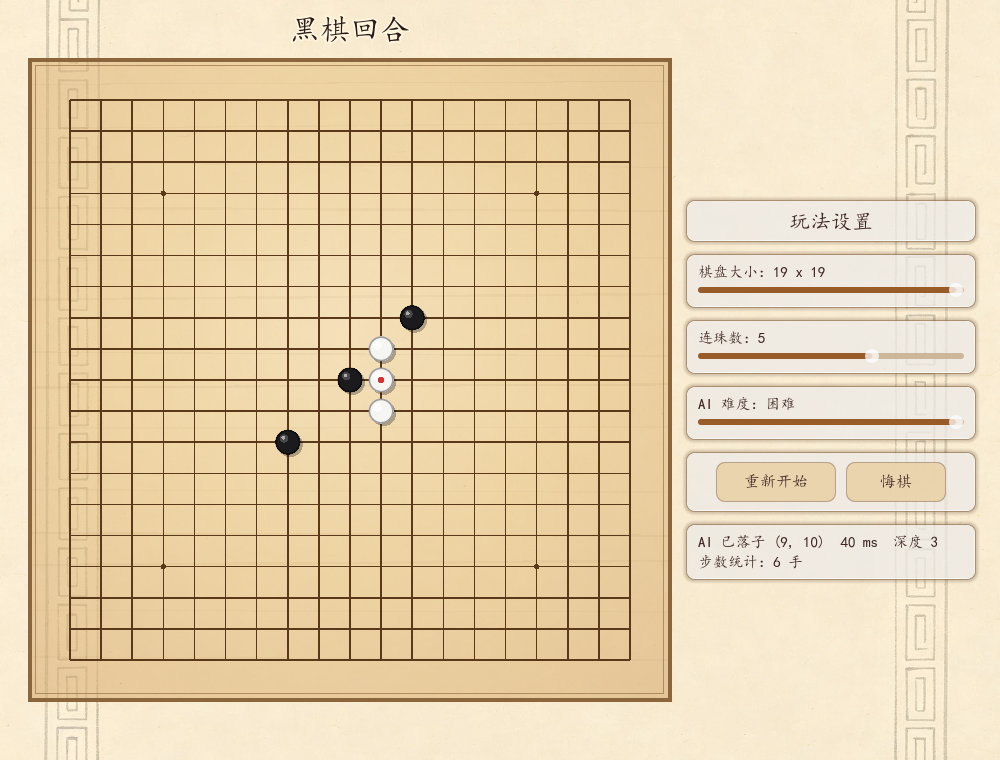
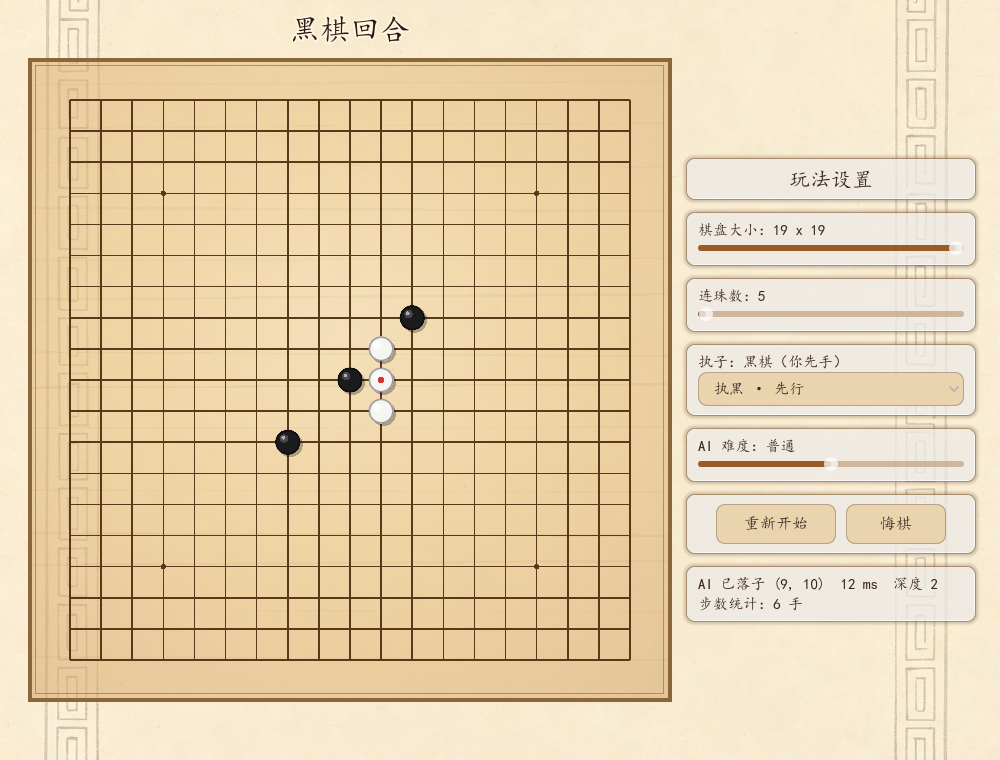
v1.2.1 修正：连珠数下限收紧为 5 + 修复调整棋盘大小的显示 Bug + 新增执子/先后手
修正 1 · 连珠数下限固定为 5
- 原范围 3~6 存在「五珠以下」玩法，不符合规则
- Main.tscn 的 WinSlider.min_value → 5
- ui.gd / board.gd 的 MIN_WIN_COUNT → 5，_apply_slider_rules 与 set_rules
  各自再夹一次，防止绕过 UI 直接调 API
- gomoku_ai.gd 的 set_rules 仍按 3~6 夹取（算法自身兼容范围），仅补注释

修正 2 · 调整棋盘大小的显示 Bug（崩溃级）
- 根因：19 路时鼠标停在右下角 _hover_cell=(17,17)，切到 9 路后同一帧的
  _draw() 里仍用旧坐标索引新数组 →
  "Out of bounds get index '17' (on base: 'Array')" at _draw_ghost_stone
- 关键：_draw() 里越界会中断整个 _draw()，导致其后的 _draw_stones() 与
  _draw_last_marker() 被跳过 —— 棋子整帧画不出来，表现为「调大小后显示坏了」
- 三重防护：
  1) set_rules() 显式清空 _hover_cell
  2) _draw_ghost_stone() 加 is_inside() + 数组实际尺寸双重判断
  3) _draw_stones() 改为按 mini(board_size, board.size()) 遍历实际数组
- 另用「初始 9 路」vs「15→19→9 切换」做像素级 A/B —— 76 万像素零差异

修正 3 · 右侧新增「执子 / 先后手」
- 新增 SidePanel + OptionButton：「执黑 · 先行」/「执白 · 后行」
- HUMAN_COLOR / AI_COLOR 由 const 改为 human_color / ai_color 变量
- 新增 _maybe_start_ai_turn()：轮到 AI 且未结束时自动启动 —— 玩家执白时 AI 先手
- 新增 _restart_round()：重开并在需要时让 AI 先手（重新开始/换边/改参数共用）
- 胜负文案、悔棋目标色均改为按 human_color 判定
- 顺带修掉：_apply_slider_rules() 原先在 AI 思考时直接 return，
  会把改动静默丢弃（滑块显示 19 但棋盘还是 15）；现改为重启防抖定时器重试

验证（21 条断言全通过）
- 连珠数下限：滑块下限=5、强行设 3 被夹到 5、set_rules(15,3) 后 win_count=5
- 尺寸切换：19 路 hover=(17,17) → 切 9 路无越界报错、hover 重置为 (-1,-1)、棋子正常绘制
- 执子：切执白后 AI 先手落黑棋、玩家落白棋可正常对弈、切回执黑后重开且玩家先手
- 3 个脚本语法检查通过；主场景无头运行 150 帧无 ERROR

文档
- docs/V12_UPDATE.md 追加 v1.2.1 修正章节（根因分析 + 复现验证表）
- CLAUDE.md 新增第 17/18 条坑；README 更新功能说明
- 重新生成全部配图（含新的执子面板）

Changed region(s): [[0.682, 0.1816, 0.992, 0.8474]]

diff --git a/docs/V12_UPDATE.md b/docs/V12_UPDATE.md
@@ -1,6 +1,7 @@
 # v1.2 更新说明 · 参数化 / 木色 UI / 滑动调节面板
 
 > 本文档记录 v1.2 四个模块的改动，可直接摘取进比赛文档。
+> **v1.2.1 修正**见文末 —— 修掉一个真实的显示 Bug，并收紧连珠数下限、新增「执子」选项。
 
 ## 总览
 
@@ -9,7 +10,7 @@
 | 1 | 背景图片处理（webp → png，落入 `assets/ui/`） | ✅ |
 | 2 | 玩法参数化（`BOARD_SIZE` / `WIN_COUNT` / `AI_LEVEL`）+ AI 规则自适应 | ✅ |
 | 3 | 木色 UI 全面替换（TextureRect 背景 + 暖木棋盘 + 宋楷字体） | ✅ |
-| 4 | 右侧信息栏与滑动调节面板（RightPanel + HSlider） | ✅ |
+| 4 | 右侧信息栏与滑动调节面板（RightPanel + HSlider + 执子选项） | ✅ |
 
 **棋盘数组结构始终未变**：依然是 `board[row][col]` 的二维 `Array`，
 `0=空 / 1=黑 / 2=白`。v1.2 只让**尺寸**、**连珠数**与**AI 档位**变成可调参数。
@@ -262,3 +263,109 @@ func _on_slider_drag_ended(_value_changed: bool) -> void:
 | `scripts/ui.gd` | 重写：木色主题、RightPanel、滑块防抖、胜负弹窗上移 |
 | `project.godot` | 版本号 → 1.2.0 |
 | `docs/ui_9x9.png`、`ui_19x19.png` | 新增配图 |
+
+---
+
+# v1.2.1 修正
+
+## 修正 1 · 连珠数下限收紧为 5
+
+**问题**：v1.2 的连珠数滑块范围是 3~6，存在「五珠以下」的玩法，不符合规则。
+
+**修正**：下限固定为 **5**，三层同时收紧，防止绕过 UI 直接调 API：
+
+| 位置 | 措施 |
+|---|---|
+| `Main.tscn` | `WinSlider.min_value = 5`（滑块拖不到 5 以下） |
+| `ui.gd` | `MIN_WIN_COUNT = 5`，`_apply_slider_rules()` 里 `clampi` |
+| `board.gd` | `MIN_WIN_COUNT = 5`，`set_rules()` 里再 `clampi` 一次 |
+
+> `gomoku_ai.gd` 的 `set_rules()` 仍按 3~6 夹取 —— 那是**算法自身的兼容范围**
+> （便于复用），规则层的 5~6 限制由前三者负责。
+
+**实测**：滑块下限 = 5；强行 `win_slider.value = 3` 被夹到 5；
+`board.set_rules(15, 3)` 后 `win_count == 5`。
+
+## 修正 2 · 调整棋盘大小的显示 Bug（真实崩溃级问题）
+
+### 根因
+
+鼠标停在 **19 路**棋盘右下角时，`_hover_cell = (17, 17)`。
+此时把棋盘切到 **9 路**，在**同一帧**的 `_draw()` 里仍用旧坐标索引新数组：
+
+```
+SCRIPT ERROR: Out of bounds get index '17' (on base: 'Array')
+   at: _draw_ghost_stone (res://scripts/board.gd:524)
+```
+
+**关键点**：`_draw()` 里任何一次越界报错都会**中断整个 `_draw()`**，
+于是排在 `_draw_ghost_stone()` 之后的 `_draw_stones()` 与 `_draw_last_marker()`
+被直接跳过 —— **棋子整帧画不出来**。用户看到的就是「调大小后棋盘显示坏了」。
+
+更糟的是：如果切换后鼠标恰好还映射到与旧值相同的格子，`_update_hover()`
+认为「悬停格没变」就不会再 `queue_redraw()`，棋子可能**持续不显示**。
+
+### 修正（三重防护）
+
+1. `set_rules()` 里显式清空 `_hover_cell = Vector2i(-1, -1)`
+2. `_draw_ghost_stone()` 加 `is_inside()` **加**数组实际尺寸双重判断
+3. `_draw_stones()` 改为按 `mini(board_size, board.size())` 遍历实际数组，
+   即便尺寸变量与数组短暂不同步也不会越界
+
+### 复现与验证
+
+| 步骤 | 修正前 | 修正后 |
+|---|---|---|
+| 19 路悬停右下角 → 切 9 路 | `Out of bounds get index '17'` | 无任何报错 |
+| 切换后 `_hover_cell` | 残留 `(17,17)` | 重置为 `(-1,-1)` |
+| 切换后棋子 | 该帧丢失 | 正常绘制 |
+
+> 另用「初始就是 9 路」vs「15→19→9 切换过去」做**像素级 A/B 对比** ——
+> 76 万像素**零差异**，确认切换不残留任何渲染状态。
+
+## 修正 3 · 右侧新增「执子 / 先后手」选项
+
+新增 `SidePanel`，内含 `OptionButton`：
+
+| 选项 | 含义 |
+|---|---|
+| 执黑 · 先行 | 玩家执黑先手（默认） |
+| 执白 · 后行 | 玩家执白，**AI 执黑先手** |
+
+配套改动：
+
+- `HUMAN_COLOR` / `AI_COLOR` 由 `const` 改为 `human_color` / `ai_color` **变量**
+- 新增 `_maybe_start_ai_turn()`：轮到 AI 且对局未结束时自动启动 AI 回合 ——
+  玩家执白时用它实现「AI 先手」
+- 新增 `_restart_round()`：重开一局并在需要时让 AI 先手（重新开始按钮、换边、改参数共用）
+- 胜负文案按 `human_color` 判定「你赢了 / 你输了」
+- 悔棋改为 `undo_to_player(human_color)`
+- 侧栏标签同时显示「执子：白棋（AI 先手）」，一眼看出当前先后手
+
+**顺带修掉**：`_apply_slider_rules()` 原先在 `_ai_thinking` 时**直接 return**，
+会把这次改动**静默丢弃**（滑块显示 19 但棋盘还是 15）。
+现在改为重新启动防抖定时器，稍后重试。
+
+**实测**：切到「执白 · 后行」后 AI 立即落下一枚**黑棋**；玩家随后落的是**白棋**；
+切回「执黑 · 先行」后重开为空盘且轮到玩家先手。
+
+## v1.2.1 验证汇总
+
+21 条断言全部通过：
+
+| 分组 | 断言数 | 结果 |
+|---|---|---|
+| 连珠数下限 = 5（滑块下限 / 强行设值 / API 直调） | 4 | ✅ |
+| 调整棋盘大小不再越界（含 hover 重置） | 3 | ✅ |
+| 执子 / 先后手（含 AI 先手、玩家执白落子、换边重开） | 14 | ✅ |
+| 三个脚本语法检查 + 主场景无头运行 | — | ✅ 无 ERROR |
+
+## v1.2.1 文件改动
+
+| 文件 | 改动 |
+|---|---|
+| `scripts/board.gd` | `MIN_WIN_COUNT` → 5；`set_rules()` 清 `_hover_cell`；`_draw_ghost_stone()` / `_draw_stones()` 加边界保护 |
+| `scripts/ui.gd` | `MIN_WIN_COUNT` → 5；`human_color`/`ai_color` 变量化；新增执子选项、`_restart_round()`、`_maybe_start_ai_turn()`；`_apply_slider_rules()` 不再丢弃改动 |
+| `scenes/Main.tscn` | `WinSlider.min_value` → 5；新增 `SidePanel`（执子下拉） |
+| `scripts/gomoku_ai.gd` | 仅补充注释（说明算法兼容 3~6，规则层限制 5~6） |
+| `project.godot` | 版本号 → 1.2.1 |

diff --git a/CLAUDE.md b/CLAUDE.md
@@ -64,12 +64,16 @@ BoardUI                  (Control)        ← scripts/ui.gd
     ├── TurnLabel        (Label)          ← 「黑棋回合」/「白棋回合」/「黑棋胜利！」
     └── RightPanel       (VBoxContainer)  ← x 686~976，alignment=CENTER 垂直居中
         ├── TitlePanel   (PanelContainer) → 「玩法设置」
-        ├── SizePanel    (PanelContainer) → 「棋盘大小：15 x 15」 + SizeSlider  (9~19)
-        ├── WinPanel     (PanelContainer) → 「连珠数：5」        + WinSlider   (3~6)
-        ├── AiPanel      (PanelContainer) → 「AI 难度：普通」    + AiSlider    (1~3)
+        ├── SizePanel    (PanelContainer) → 「棋盘大小：15 x 15」 + SizeSlider (9~19)
+        ├── WinPanel     (PanelContainer) → 「连珠数：5」        + WinSlider  (5~6)
+        ├── SidePanel    (PanelContainer) → 「执子：…」          + SideOption
+        ├── AiPanel      (PanelContainer) → 「AI 难度：普通」    + AiSlider   (1~3)
         ├── BtnPanel     (PanelContainer) → [重新开始] [悔棋]
         └── InfoPanel    (PanelContainer) → AiStatusLabel / MoveCountLabel
 ```
+
+> `SideOption` 是 `OptionButton`：「执黑 · 先行」/「执白 · 后行」。
+> 选「执白」后角色互换 —— AI 执黑先手，`_maybe_start_ai_turn()` 会自动启动 AI 回合。
 
 > 每个分组都由 `PanelContainer` 包裹，统一套 `StyleBoxFlat`：
 > 圆角 8px、`#FFFFFFAA` 底、`#8B6642` 描边、4px 投影。
@@ -114,8 +118,11 @@ ui.gd::_on_stone_placed()
 | 值 | 含义 |
 | --- | --- |
 | `0` | 空 |
-| `1` | 黑棋（玩家，先行） |
-| `2` | 白棋（AI） |
+| `1` | 黑棋（**永远先行**） |
+| `2` | 白棋 |
+
+> 执黑/执白由 UI 的「执子」选项决定（`ui.gd` 的 `human_color` / `ai_color`）。
+> 无论玩家执哪边，**黑棋始终先行** —— 玩家执白时由 AI 先手。
 
 `board` 是 **`board_size` × `board_size` 的二维数组**（默认 15×15），
 索引方式恒为 `board[row][col]`。`board_size` 可变，但数组**结构从不改变**。
@@ -151,7 +158,7 @@ signal game_over(winner: int)              # 1=黑, 2=白, 0=和棋
 
 # —— 玩法参数（v1.2 起可在运行时调整）——
 var board_size: int = 15     # 9~19
-var win_count:  int = 5      # 3~6
+var win_count:  int = 5      # 5~6（不存在五珠以下玩法）
 var ai_level:   int = 2      # 1~3（仅记录，实际由 ui.gd 下发给 AI）
 
 func set_rules(new_size: int, new_win: int, new_level: int = -1) -> void   # 应用并重开一局
@@ -252,6 +259,20 @@ depth = clampi(base + difficulty - 1, 1, 6)      # EASY=-1 / NORMAL=0 / HARD=+1
 16. **胜负弹窗别居棋盘正中**：棋盘中央那条横线（15 路时是第 7 行，y≈380）
     是最常见的获胜位置，弹窗居正中会正好压住闪烁的连线。
     因此 `CenterContainer` 的 `offset_bottom` 收到 440，把弹窗中心抬到 y≈250。
+17. **改棋盘尺寸必须清 `_hover_cell`（v1.2.1 修的真实显示 bug）**：
+    鼠标停在 19 路右下角时 `_hover_cell=(17,17)`，切到 9 路后 `_draw` 里
+    `board[17]` **越界报错**；而报错会中断整个 `_draw()`，导致后面的
+    `_draw_stones()` / `_draw_last_marker()` 被跳过 —— **棋子整帧画不出来**，
+    看起来就像「调大小后棋盘显示坏了」。
+    现在三重防护：`set_rules()` 里清 `_hover_cell`、
+    `_draw_ghost_stone()` 加 `is_inside()` + 数组实际尺寸双重判断、
+    `_draw_stones()` 按 `mini(board_size, board.size())` 遍历。
+    **教训：`_draw()` 里任何一次越界都会让整帧绘制中断，比普通逻辑报错严重得多。**
+18. **连珠数下限是 5**：不存在「五珠以下」的玩法。
+    `board.gd` / `ui.gd` 的 `MIN_WIN_COUNT` 均为 5，滑块下限也是 5，
+    `set_rules()` 里再夹一次（防绕过 UI 直接调 API）。
+    `gomoku_ai.gd` 的 `set_rules()` 仍按 3~6 夹取 —— 那是算法自身的兼容范围，
+    规则层的 5~6 限制由前两者负责。
 
 ## 8. 验证方式（已跑通，0 失败）
 
